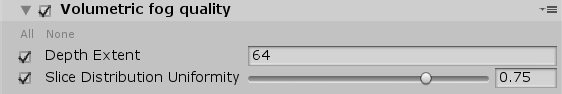
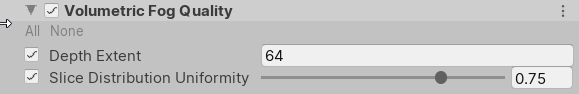
Hdrp/docs/volumetric fog update (#4417)
* Replaced Unity units with meters

* Update Override-Contact-Shadows.md

* Updated images

* Updated docs.

diff --git a/com.unity.render-pipelines.high-definition/Documentation~/Override-Volumetric-Fog.md b/com.unity.render-pipelines.high-definition/Documentation~/Override-Volumetric-Fog.md
@@ -1,6 +1,6 @@
 # Volumetric Fog
 
-Volumetric fog is the most advanced implementation of fog available in the High Definition Render Pipeline (HDRP). It realistically simulates the interaction of lights with fog, which allows for physically-plausible rendering of glow and crepuscular rays, which are beams of light that stream through gaps in objects like clouds and trees from a central point, like a God ray from the Sun..
+Volumetric fog is the most advanced implementation of fog available in the High Definition Render Pipeline (HDRP). It realistically simulates the interaction of lights with fog, which allows for physically-plausible rendering of glow and crepuscular rays, which are beams of light that stream through gaps in objects like clouds and trees from a central point.
 
 ## Using Volumetric Fog
 
@@ -19,25 +19,31 @@ At this point, the Scene contains global volumetric fog. However, the effect is 
 
 ## Customizing Global Volumetric Fog
 
-Use global fog, rather than local fog, because it provides the best performance and the best quality.
+Use global volumetric fog, rather than local fog, because it provides the best performance and the best quality.
 
-Global fog is a height fog. It has two logical components: the region at a distance closer to the Camera than the __Base Height__ is a constant (homogeneous) fog, and the region at a distance further than the __Base Height__ is the exponential fog.
+Global fog is a height fog which has two logical components:
 
-The __Volumetric Fog__ component of the active Volume controls the appearance of the global fog.
+- The region at a distance closer to the Camera than the **Base Height** is a constant (homogeneous) fog
+- The region at a distance further than the **Base Height** is the exponential fog.
+
+The **Volumetric Fog** override of the active Volume controls the appearance of the global fog. It includes two main properties that you can use to override the default density.
+
+* **Fog Attenuation Distance**: Controls the global density of the fog.
+* **Maximum Height**: Controls the density falloff with height; allows you to have a greater density near the ground and a lower density higher up.
 
 ## Properties
 
-![](Images/Override-VolumetricFog2.png)
+![](Images/Override-VolumetricFog1.png)
 
 | Property                 | Function                                                     |
 | :----------------------- | :----------------------------------------------------------- |
-| **Single Scattering Albedo** | Sets the fog color. Volumetric Fog tints lighting, so the fog scatters light to this color. It only tints lighting emitted by Lights behind or within the fog. This means that it does not tint lighting that reflects off GameObjects behind or within the fog - reflected lighting only gets dimmer (fades to black) as fog density increases. For example, if you shine a Light at a white wall behind fog with red Single Scattering Albedo, the fog looks red. If you shine a Light at a white wall and view it from the other side of the fog, the fog darkens the light but doesn’t tint it red. |
-| **Base Fog Distance**    | Controls the density at the base of the fog and determines how far you can see through the fog in Unity units. At this distance, the fog has absorbed and out-scattered 63% of background light. |
+| **Fog Albedo** | Sets the fog color. Volumetric Fog tints lighting, so the fog scatters light to this color. It only tints lighting emitted by Lights behind or within the fog. This means that it does not tint lighting that reflects off GameObjects behind or within the fog - reflected lighting only gets dimmer (fades to black) as fog density increases. For example, if you shine a Light at a white wall behind fog with red Single Scattering Albedo, the fog looks red. If you shine a Light at a white wall and view it from the other side of the fog, the fog darkens the light but doesn’t tint it red. |
+| **Fog Attenuation Distance** | Controls the density at the base of the fog and determines how far you can see through the fog in meters. At this distance, the fog has absorbed and out-scattered 63% of background light. |
 | **Base Height**          | The height of the boundary between the constant (homogeneous) fog and the exponential fog. |
-| **Mean Height**          | Controls the rate of falloff for the height fog in Unity units. Higher values stretch the fog vertically. At this height , the falloff reduces the initial base density by 63%. |
+| **Maximum Height**   | Controls the rate of falloff for the height fog in meters. Higher values stretch the fog vertically. At this height , the falloff reduces the initial base density by 63%. |
 | **Global Anisotropy** | Controls the angular distribution of scattered light. 0 is isotropic, 1 is forward scattering, and -1 is backward scattering. Note that non-zero values have a moderate performance impact. High values may have compatibility issues with the Enable Reprojection for Volumetrics Frame Setting. This is an experimental property that HDRP applies to both global and local fog. |
 | **Global Light Probe Dimmer** | Reduces the intensity of the global Light Probe that the sky generates. |
-| **Max Fog Distance** | Controls the distance (in Unity units) when applying fog to the skybox or background. Also determines the range of the Distant Fog. For optimal results, set this to be larger than the Camera’s Far value for its Clipping Plane. Otherwise, a discrepancy occurs between the fog on the Scene’s GameObjects and on the skybox. Note that the Camera’s Far Clipping Plane is flat whereas HDRP applies fog within a sphere surrounding the Camera. |
+| **Max Fog Distance** | Controls the distance (in meters) when applying fog to the skybox or background. Also determines the range of the Distant Fog. For optimal results, set this to be larger than the Camera’s Far value for its Clipping Plane. Otherwise, a discrepancy occurs between the fog on the Scene’s GameObjects and on the skybox. Note that the Camera’s Far Clipping Plane is flat whereas HDRP applies fog within a sphere surrounding the Camera. |
 | **Distant Fog** | <a name="DistantFog"></a>Activates the fog with precomputed lighting behind the volumetric section of the Camera’s frustum. The fog stretches from the maximum Distance Range in the Volumetric Lighting Controller to the Max Fog Distance. |
 | **Color Mode** | Use the drop-down to select the mode HDRP uses to calculate the color of the fog.<br />&#8226; **Sky Color**: HDRP shades the fog with a color it samples from the sky cubemap and its mipmaps.<br />&#8226; **Constant Color**: HDRP shades the fog with the color you set manually in the **Constant Color** field that appears when you select this option. |
 | **- Mip Fog Near**    | The distance (in meters) from the Camera that HDRP stops sampling the lowest resolution mipmap for the fog color.<br />This property only appears when you select **Sky Color** from the **Color Mode** drop-down. |
@@ -52,7 +58,6 @@ The __Volumetric Fog__ component of the active Volume controls the appearance of
 
 The [Light component](Light-Component.html) has several properties that are useful for volumetric lighting:
 
-- __Emission Radius__ is useful to simulate fill lighting. It acts by virtually "pushing" the light away from the Scene. As a result, it softens the core of punctual lights. Always use a non-zero value to reduce ghosting artifacts resulting from reprojection.
-- __Volumetric Dimmer__ only affects the fog and replaces the Light Dimmer that HDRP uses for surfaces.
-- __Shadow Dimmer__ only affects the fog and replaces the Shadow Dimmer that HDRP uses for surfaces.
-
+- **Emission Radius** is useful to simulate fill lighting. It acts by virtually "pushing" the light away from the Scene. As a result, it softens the core of [punctual lights](Glossary.html#PunctualLight). Always use a non-zero value to reduce ghosting artifacts resulting from reprojection.
+- **Volumetric Dimmer** only affects the fog and replaces the Light Dimmer that HDRP uses for surfaces.
+- **Shadow Dimmer** only affects the fog and replaces the Shadow Dimmer that HDRP uses for surfaces.

diff --git a/com.unity.render-pipelines.high-definition/Documentation~/Override-Contact-Shadows.md b/com.unity.render-pipelines.high-definition/Documentation~/Override-Contact-Shadows.md
@@ -1,6 +1,8 @@
 # Contact Shadows
 The Contact Shadows [Volume Override](Volume-Components.html) specifies properties which control the behavior of Contacts Shadows. Contact Shadows are shadows that The High Definition Render Pipeline (HDRP) [ray marches](Glossary.html#RayMarching) in screen space inside the depth buffer. The goal of using Contact Shadows is to capture small details that regular shadow mapping algorithms fail to capture.
 
+## Using Contact Shadows
+
 To use Contact Shadows in your Scene, you must first enable them for your Cameras. In the Inspector for your HDRP Asset, go to the **Default Frame Settings > Lighting** section and enable the **Contact Shadows** checkbox. All Cameras can now render Contact Shadows unless you override a Camera’s individual [Frame Settings](Frame-Settings.html).
 
 **Contact Shadows** use the [Volume](Volumes.html) framework, so to enable and modify **Contact Shadow** properties, you must add a **Contact Shadows** override to a [Volume](Volumes.html) in your Scene. To add **Contact Shadows** to a Volume:
@@ -23,8 +25,8 @@ Only one Light can cast Contact Shadows at a time. This means that, if you have 
 | __Enable__                | Enable the checkbox to make HDRP process Contact Shadows for this [Volume](Volumes.html).       |
 | __Length__                | Use the slider to set the length of the rays, in meters, that HDRP uses for tracing. It also functions as the maximum distance at which the rays can captures details. |
 | __Distance Scale Factor__ | HDRP scales Contact Shadows up with distance. Use the slider to set the value that HDRP uses to dampen the scale to avoid biasing artifacts with distance. |
-| __Max Distance__          | The distance from the Camera, in Unity units, at which HDRP begins to fade Contact Shadows out to zero. |
-| __Fade Distance__         | The distance, in Unity units, over which HDRP fades Contact Shadows out when at the __Max Distance__. |
+| __Max Distance__          | The distance from the Camera, in meters, at which HDRP begins to fade Contact Shadows out to zero. |
+| __Fade Distance__         | The distance, in meters, over which HDRP fades Contact Shadows out when at the __Max Distance__. |
 | __Sample Count__          | Use the slider to set the number of samples HDRP uses for ray casting. Increasing this increases quality at the cost of performance. |
 | __Opacity__ |   Use the slider to set the opacity of the Contact Shadows. Lower values result in softer, less prominent shadows.   |
 

diff --git a/com.unity.render-pipelines.high-definition/Documentation~/Density-Volume.md b/com.unity.render-pipelines.high-definition/Documentation~/Density-Volume.md
@@ -19,7 +19,7 @@ To create a Density Volume, right click in the Hierarchy and select __Rendering 
 | Property                     | Description                                                  |
 | :--------------------------- | :----------------------------------------------------------- |
 | **Single Scattering Albedo** | Sets the fog color. Volumetric Fog tints lighting, so the fog scatters light to this color. It only tints lighting emitted by Lights behind or within the fog. This means that it does not tint lighting that reflects off GameObjects behind or within the fog - reflected lighting only gets dimmer (fades to black) as fog density increases. For example, if you shine a Light at a white wall behind fog with red Single Scattering Albedo, the fog looks red. If you shine a Light at a white wall and view it from the other side of the fog, the fog darkens the light but doesn’t tint it red. |
-| **Fog Distance**             | Controls the density at the base of the fog and determines how far you can see through the fog in Unity units. At this distance, the fog has absorbed and out-scattered 63% of background light. |
+| **Fog Distance**             | Controls the density at the base of the fog and determines how far you can see through the fog in meters. At this distance, the fog has absorbed and out-scattered 63% of background light. |
 | **Size**                     | Controls the dimensions of the Volume.                       |
 | **Blend Distance**           | Blend Distance creates a linear fade from the fog level in the Volume to the fog level outside it. This is not a percentage, it is the absolute distance from the edge of the Volume bounds, defined by the Size property, where the fade starts. Unity clamps this value between 0 and half of the lowest axis value in the Size property. If you use the Normal tab, you can alter a single float value named Blend Distance, which gives a uniform fade in every direction. If you open the Advanced tab, you can use two fades per axis, one for each direction. For example, on the x-axis you could have one for left-to-right and one for right-to-left. Setting the distance to 0 hides the fade, while setting the distance to 1 creates a fade. |
 | **Invert Blend**             | Reverses the direction of the fade. Setting the Blend Distances on each axis to its maximum possible value preserves the fog at the center of the Volume and fades the edges. Inverting the blend fades the center and preserves the edges instead. |

diff --git a/com.unity.render-pipelines.high-definition/Documentation~/Override-Volumetric-Fog-Quality.md b/com.unity.render-pipelines.high-definition/Documentation~/Override-Volumetric-Fog-Quality.md
@@ -17,6 +17,6 @@ Adjust the **Depth Extent** on the Volumetric Lighting Controller component to d
 
 |**Property**| **Description**|
 |:----------------------------- |:------------------------------------------------------------ |
-| **Depth Extent** | Determines the distance (in Unity Units) from the Camera at which the volumetric fog section of the frustum ends. |
-| **Slice Distribution Uniformity** | Controls the uniformity of the distribution of slices along the Camera's focal axis. A value of 0 makes the distribution exponential (the spacing between the slices increases with the distance from the Camera), and the value of 1 results in a uniform distribution. |
+| **Depth Extent** | Determines the distance (in meters) from the Camera at which the volumetric fog section of the frustum ends. |
+| **Slice Distribution Uniformity** | Controls the uniformity of the distribution of slices along the Camera's focal axis. HDRP samples volumetric fog at multiple distances from the Camera. Each of these sample areas is called a slice. A value of 0 makes the distribution of slices exponential (the spacing between the slices increases with the distance from the Camera) which gives greater precision near to the Camera, and lower precision further away. A value of 1 results in a uniform distribution which gives the same level of precision regardless of the distance to the Camera. |
 
